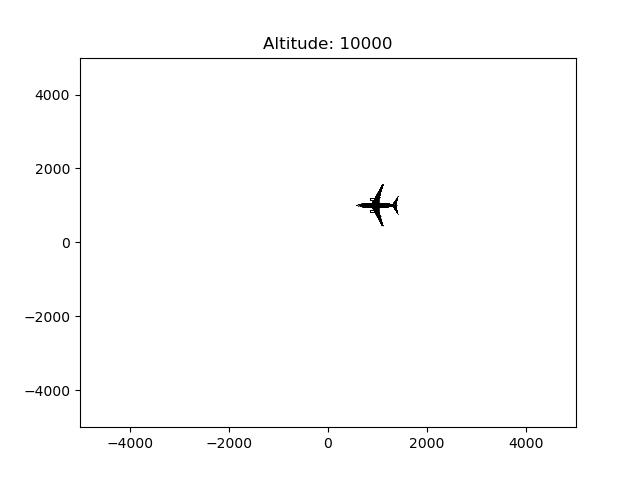
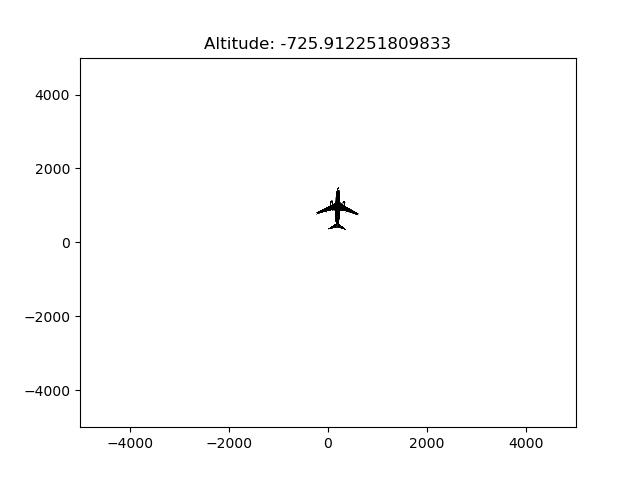
Added 2D and 3D plots to GUI

Changed region(s): [[0.3125, 0.0625, 0.7188, 0.125], [0.5, 0.4062, 0.625, 0.5]]

diff --git a/plotter3D.py b/plotter3D.py
@@ -1,0 +1,35 @@
+
+import numpy as np
+from mpl_toolkits.mplot3d import axes3d
+from matplotlib.colors import Normalize
+import matplotlib.pyplot as plt
+import matplotlib.cm as cm
+import matplotlib
+
+def vector_3D_plotter(state: np.array):
+    fig = plt.figure()
+    ax = fig.gca(projection='3d')
+    
+    colors = np.array([0, 0.5, 1])
+    norm = Normalize()
+    norm.autoscale(colors)
+    
+    x = np.array([state[3], state[3], state[3]])
+    y = np.array([state[4], state[4], state[4]])
+    z = np.array([state[5], state[5], state[5]])
+    
+    u = np.array([state[0], state[6], state[9]])
+    v = np.array([state[1], state[7], state[10]])
+    w = np.array([state[2], state[8], state[11]])
+    
+    colormap = cm.inferno
+    
+    ax.quiver(x, y, z, u, v, w, color=colormap(norm(colors)), length=4000, normalize=True)
+    ax.set_xlim(-5000.0, 5000.0)
+    ax.set_ylim(-5000.0, 5000.0)
+    ax.set_zlim(0, 15000.0)
+    
+    plt.savefig('images/vector3DPlot.jpg')
+    plt.close(fig)
+    
+    

diff --git a/plotter2D.py b/plotter2D.py
@@ -1,0 +1,29 @@
+
+import numpy as np
+import matplotlib.pyplot as plt
+from matplotlib.offsetbox import OffsetImage, AnnotationBbox
+from matplotlib.cbook import get_sample_data
+import cv2
+
+def GPS_Plotter(state: np.array, image):
+    fig, ax = plt.subplots()
+    height, width = image.shape[:2]
+    center = (width/2, height/2)
+    
+    rotate_matrix = cv2.getRotationMatrix2D(center=center, angle=-state[11], scale=1)
+    rotated_image = cv2.warpAffine(src=image, M=rotate_matrix, dsize=(width, height))
+    
+    im = OffsetImage(rotated_image, zoom=0.05)
+    
+    ab = AnnotationBbox(im, (state[3], state[4]), xycoords='data', frameon=False)
+    ax.add_artist(ab)
+    ax.set_xlim(-5000.0, 5000.0)
+    ax.set_ylim(-5000.0, 5000.0)
+    title = "Altitude: "
+    title = title + str(state[5])
+    plt.title(title)
+    
+    plt.savefig('images/GPSPlot.jpg')
+    plt.close(fig)
+    
+    
